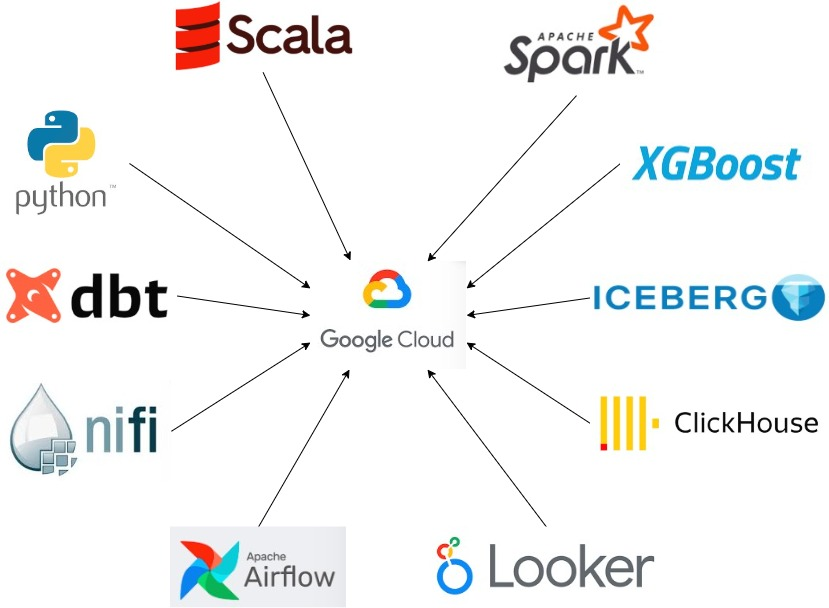
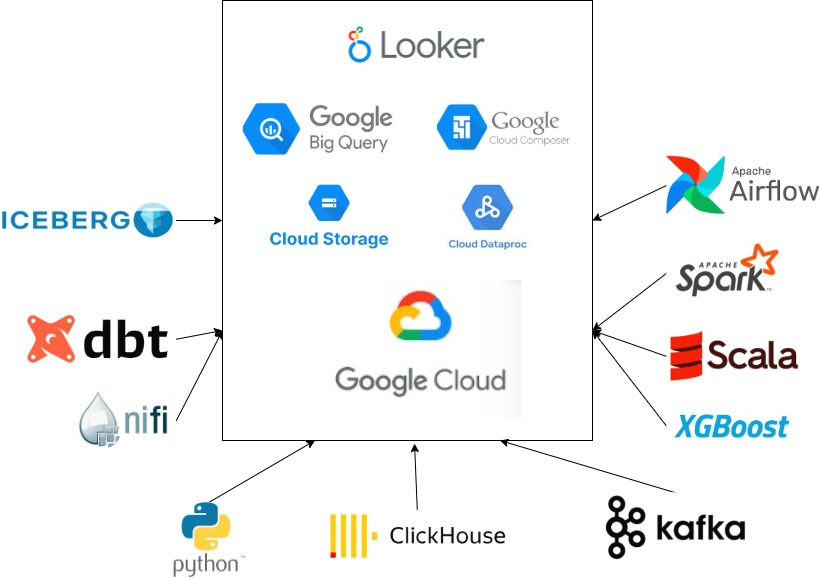
add Nifi

diff --git a/README.md b/README.md
@@ -19,7 +19,10 @@ For writing and running Python, Scala, Java, and connecting GitHub, Remote Linux
 For: Data Storage, Data Warehouse, BI
 ### 2.1 Google Cloud Storage
 ### 2.2 Google Bigquery
-- Data Warehouse, Best Practice, free bigdata-public-data on marketplace
+- Data Warehouse
+- Best Practice
+- Iceberg Tables
+- Free bigdata-public-data on marketplace, free big data sources to play with
 
 ![big query dataset](https://github.com/barneywill/bigdata_demo/blob/main/imgs/bigquery_dataset_structure.jpg)
 
@@ -32,7 +35,8 @@ For: Data Storage, Data Warehouse, BI
 ### 2.6 Dataproc
 - Spark on GCP
 - GCS Connector Hadoop3, Spark Bigquery Connector
-### 2.7 Looker
+### 2.7 Google Cloud Managed Service for Apache Kafka
+### 2.8 Looker
 - BI with Bigquery, showing lines, bars, pies, maps, ...
 
 ![looker](https://github.com/barneywill/bigdata_demo/blob/main/imgs/looker.jpg)
@@ -72,6 +76,7 @@ For: Ochestration, Workflow, Data Pipeline Management
 
 ## 5 Nifi
 For: Data Loading
+### 5.1 Process Group, Processor, Parameter Context
 
 ## 6 <a href='https://github.com/barneywill/bigdata_demo/tree/main/Spark'>Spark</a>
 For: Data Processing, batch or streaming, Machine Learning
@@ -94,25 +99,27 @@ For: Data Processing, batch or streaming, Machine Learning
 
 ![spark word count](https://github.com/barneywill/bigdata_demo/blob/main/imgs/spark_job.jpg)
 
-## 7 <a href='https://github.com/barneywill/bigdata_demo/tree/main/Iceberg'>Iceberg</a>
-For: Data Lake, Almost Realtime Data Warehouse, Parquet on any cloud storage
-### 7.1 Iceberg on Google Cloud Storage
+## 7 Kafka
 
-## 8 Machine Learning
+## 8 <a href='https://github.com/barneywill/bigdata_demo/tree/main/Iceberg'>Iceberg</a>
+For: Data Lake, Almost Realtime Data Warehouse, Parquet on any cloud storage
+### 8.1 Iceberg on Google Cloud Storage
+
+## 9 Machine Learning
 For: Prediction, Classification, Clustering, Recommendation, ...
-### 8.1 XGBoost
-### 8.2 tensorflow/serving
+### 9.1 XGBoost
+### 9.2 tensorflow/serving
 Serve ML model on docker
 
-## 9 Clickhouse
+## 10 Clickhouse
 
-## 10 Other
-### 10.1 AWS
-#### 10.1.1 Redshit 
+## 11 Other
+### 11.1 AWS
+#### 11.1.1 Redshit 
 Based on Postgresql
-#### 10.1.2 Athena
+#### 11.1.2 Athena
 Based on Presto
-### 10.2 Databricks vs Snowflake
+### 11.2 Databricks vs Snowflake
 
 Thanks for:
 [data-engineering-zoomcamp](https://github.com/DataTalksClub/data-engineering-zoomcamp)

diff --git a/Nifi/README.md b/Nifi/README.md
@@ -1,0 +1,25 @@
+
+# Run
+```
+#start
+bin/nifi.sh start
+
+#add user
+bin/nifi.sh set-single-user-credentials $username $password
+```
+
+# Open
+## Use a host name or an ip to access
+https://whatever-host-name:8443/nifi
+
+# Scenario
+
+## Daily Mysql to Google Cloud Storage
+
+![mysql_2_google_cloud_storage](https://github.com/barneywill/bigdata_demo/blob/main/imgs/mysql_2_google_cloud_storage.jpg)
+
+## Realtime Mysql to Kafka
+
+## Kafka to Bigquery
+
+## Bigquery to Clickhouse
